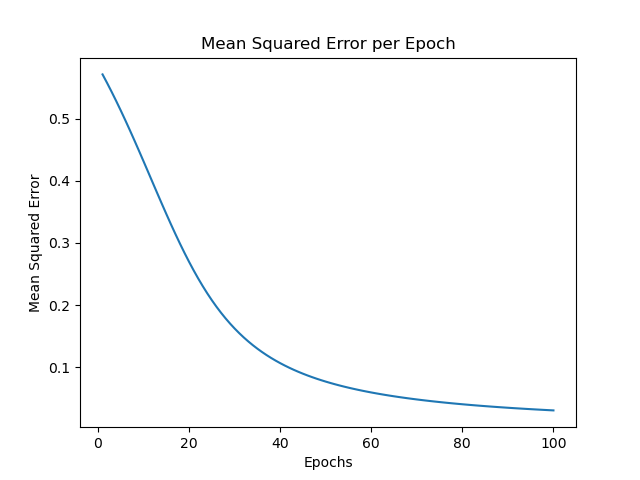
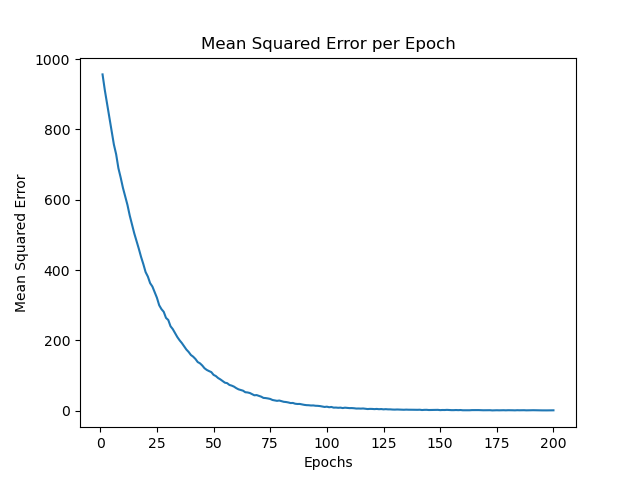
added plots

diff --git a/assignment4/polynomial_regression.py b/assignment4/polynomial_regression.py
@@ -23,28 +23,20 @@ def main():
     X.loc[:, 'X2'] = X["X1"]**2
 
     features = ['base', 'X1', 'X2']
-
     X = X[features]
     
-    noise = 0.1
-
-    #y = b0 + b1 * x + b2 * X^2 + noise
+    noise = 1
 
     # Perform polynomial regression
     # weights = polynomial_regression_matrix(X, Y, features)
     weights = polynomial_regression_iterative(X, Y, features, noise)
 
-    # X_test_normalized = normalize(X)
-    Y_test_pred = evaluate_all_with_noise(weights, X, noise)
+    Y_pred = evaluate_all_with_noise(weights, X, noise)
 
-    # plt.figure(figsize=(10,5))
-    plt.plot(X['X1'], Y_test_pred, color = 'red', label = 'Predictions')
-    plt.scatter(X['X1'], Y['weight'], color = 'blue', label = 'Original')
-    plt.show()
+    # Plot results
+    plot_polynomial_regression_line(X, Y, Y_pred)
+    plot_polynomial_regression_scatter(X, Y, Y_pred)
 
-    # The accuracy
-    # accuracy = get_accuracy(Y_test_pred, Y_test)
-    # print(f"Test Accuracy = {accuracy}")
 
 def polynomial_regression_matrix(A :pd.DataFrame, Y :pd.DataFrame, features :[]) -> []:
     weights = [random.uniform(0.0, 1.0) for x in range(len(features))]
@@ -66,22 +58,22 @@ def polynomial_regression_iterative(X :pd.DataFrame, Y :pd.DataFrame, features :
     # weights = [0 for x in range(len(features))]
 
     learning_rate = 0.001
-    epochs = 1000
+    epochs = 200
     noise_parameter = noise
 
     errors = []
-    accuracies = []
 
     # Loop over all epochs
     for epoch in range(epochs):
         y_prediction = evaluate_all_with_noise(weights, X, noise_parameter)
 
+        errors.append(get_error(y_prediction, Y))
+
         derivatives = get_derivatives(X, Y, y_prediction, features)
 
         weights = update_weights(weights, derivatives, learning_rate)
 
-    # plot_error(errors, epochs)
-    # plot_accuracy(accuracies, epochs)
+    plot_error(errors, epochs)
 
     return weights
 
@@ -97,6 +89,7 @@ def evaluate_with_noise(weights :[], x :float, noise_size :float) -> float:
 
     return y
 
+
 def evaluate_all_with_noise(weights :[], X :pd.DataFrame, noise_size :float) -> []:
     b0 = weights[0]
     b1 = weights[1]
@@ -109,30 +102,21 @@ def evaluate_all_with_noise(weights :[], X :pd.DataFrame, noise_size :float) -> 
     return y
 
 
-
 def normalize(X :pd.DataFrame) -> pd.DataFrame:
          
         X[:, 1:] = ( X[:, 1:] - np.mean( X[:, 1:], axis = 0 ) ) / np.std( X[:, 1:], axis = 0 )
          
         return X
 
+
 def get_error(y_pred :np.array, y :pd.DataFrame) -> float:
-    errors = y_pred - y
+    errors = y_pred - y['weight']
     squared_errors = errors ** 2
 
     mean_squared_error = sum(squared_errors) / len(errors)
 
     return mean_squared_error
 
-def get_accuracy(y_pred :np.array, y:pd.DataFrame) -> float:
-    correct_predictions = 0
-    for i in range(len(y_pred)):
-        if y_pred[i] == y.iloc[i]:
-            correct_predictions += 1
-
-    accuracy = correct_predictions / len(y_pred)
-    return accuracy
-    # print(f"Accuracy = {accuracy / len(y_pred)}")
 
 def get_derivatives(X :pd.DataFrame, y :pd.DataFrame, y_pred :pd.DataFrame, features :[]) -> []:
         derivatives = []
@@ -144,6 +128,7 @@ def get_derivatives(X :pd.DataFrame, y :pd.DataFrame, y_pred :pd.DataFrame, feat
 
         return derivatives
 
+
 def update_weights(weights :[], derivatives :[], learning_rate :float) -> []:
     new_weights = []
     for i in range(len(weights)):
@@ -152,8 +137,6 @@ def update_weights(weights :[], derivatives :[], learning_rate :float) -> []:
 
     return new_weights
 
-def normalize(X :pd.DataFrame) -> pd.DataFrame:
-    return X - X.mean()
 
 def plot_error(errors :[], epochs :int) -> None:
     x = np.arange(1, epochs + 1)
@@ -162,25 +145,27 @@ def plot_error(errors :[], epochs :int) -> None:
     plt.ylabel('Mean Squared Error')
     plt.title('Mean Squared Error per Epoch')
     # plt.savefig('assignment3/plots/training_error.png')
-    plt.savefig(os.path.join('assignment3/plots', "training_error.png"))
+    plt.savefig(os.path.join('assignment4/plots', "training_error.png"))
     plt.show()
 
-def plot_accuracy(accuracies :[], epochs :int) -> None:
-    x = np.arange(1, epochs + 1)
-    plt.plot(x, accuracies)
-    plt.xlabel('Epochs')
-    plt.ylabel('Accuracy')
-    plt.title('Accuracy per Epoch')
-    # plt.savefig('assignment3/plots/training_accuracy.png')
-    plt.savefig(os.path.join('assignment3/plots', "training_accuracy.png"))
+
+def plot_polynomial_regression_scatter(X :pd.DataFrame, y :pd.DataFrame, y_pred :pd.DataFrame) -> None:
+    plt.scatter(X['X1'], y_pred, color = 'red', label = 'Predictions')
+    plt.scatter(X['X1'], y['weight'], color = 'blue', label = 'Original')
+    plt.xlabel('Height')
+    plt.ylabel('Weight')
+    plt.title('Polynomial Regression of Height vs. Weight')
+    plt.savefig(os.path.join('assignment4/plots', "poly_regression_scatter.png"))
     plt.show()
 
-def plot_confusion_matrix(y_pred :np.array, y :pd.DataFrame, label_1 :str, label_2 :str) -> None:
-    confusion_matrix = metrics.confusion_matrix(y, y_pred)
-    cm_display = metrics.ConfusionMatrixDisplay(confusion_matrix=confusion_matrix, display_labels= [label_1, label_2])
-    cm_display.plot()
-    # plt.savefig('assignment3/plots/test_confusion_matrix.png')
-    plt.savefig(os.path.join('assignment3/plots', "test_confusion_matrix.png"))
+
+def plot_polynomial_regression_line(X :pd.DataFrame, y :pd.DataFrame, y_pred :pd.DataFrame) -> None:
+    plt.plot(X['X1'], y_pred, color = 'red', label = 'Predictions')
+    plt.scatter(X['X1'], y['weight'], color = 'blue', label = 'Original')
+    plt.xlabel('Height')
+    plt.ylabel('Weight')
+    plt.title('Polynomial Regression of Height vs. Weight')
+    plt.savefig(os.path.join('assignment4/plots', "poly_regression_line.png"))
     plt.show()
 
 if __name__ == "__main__":
